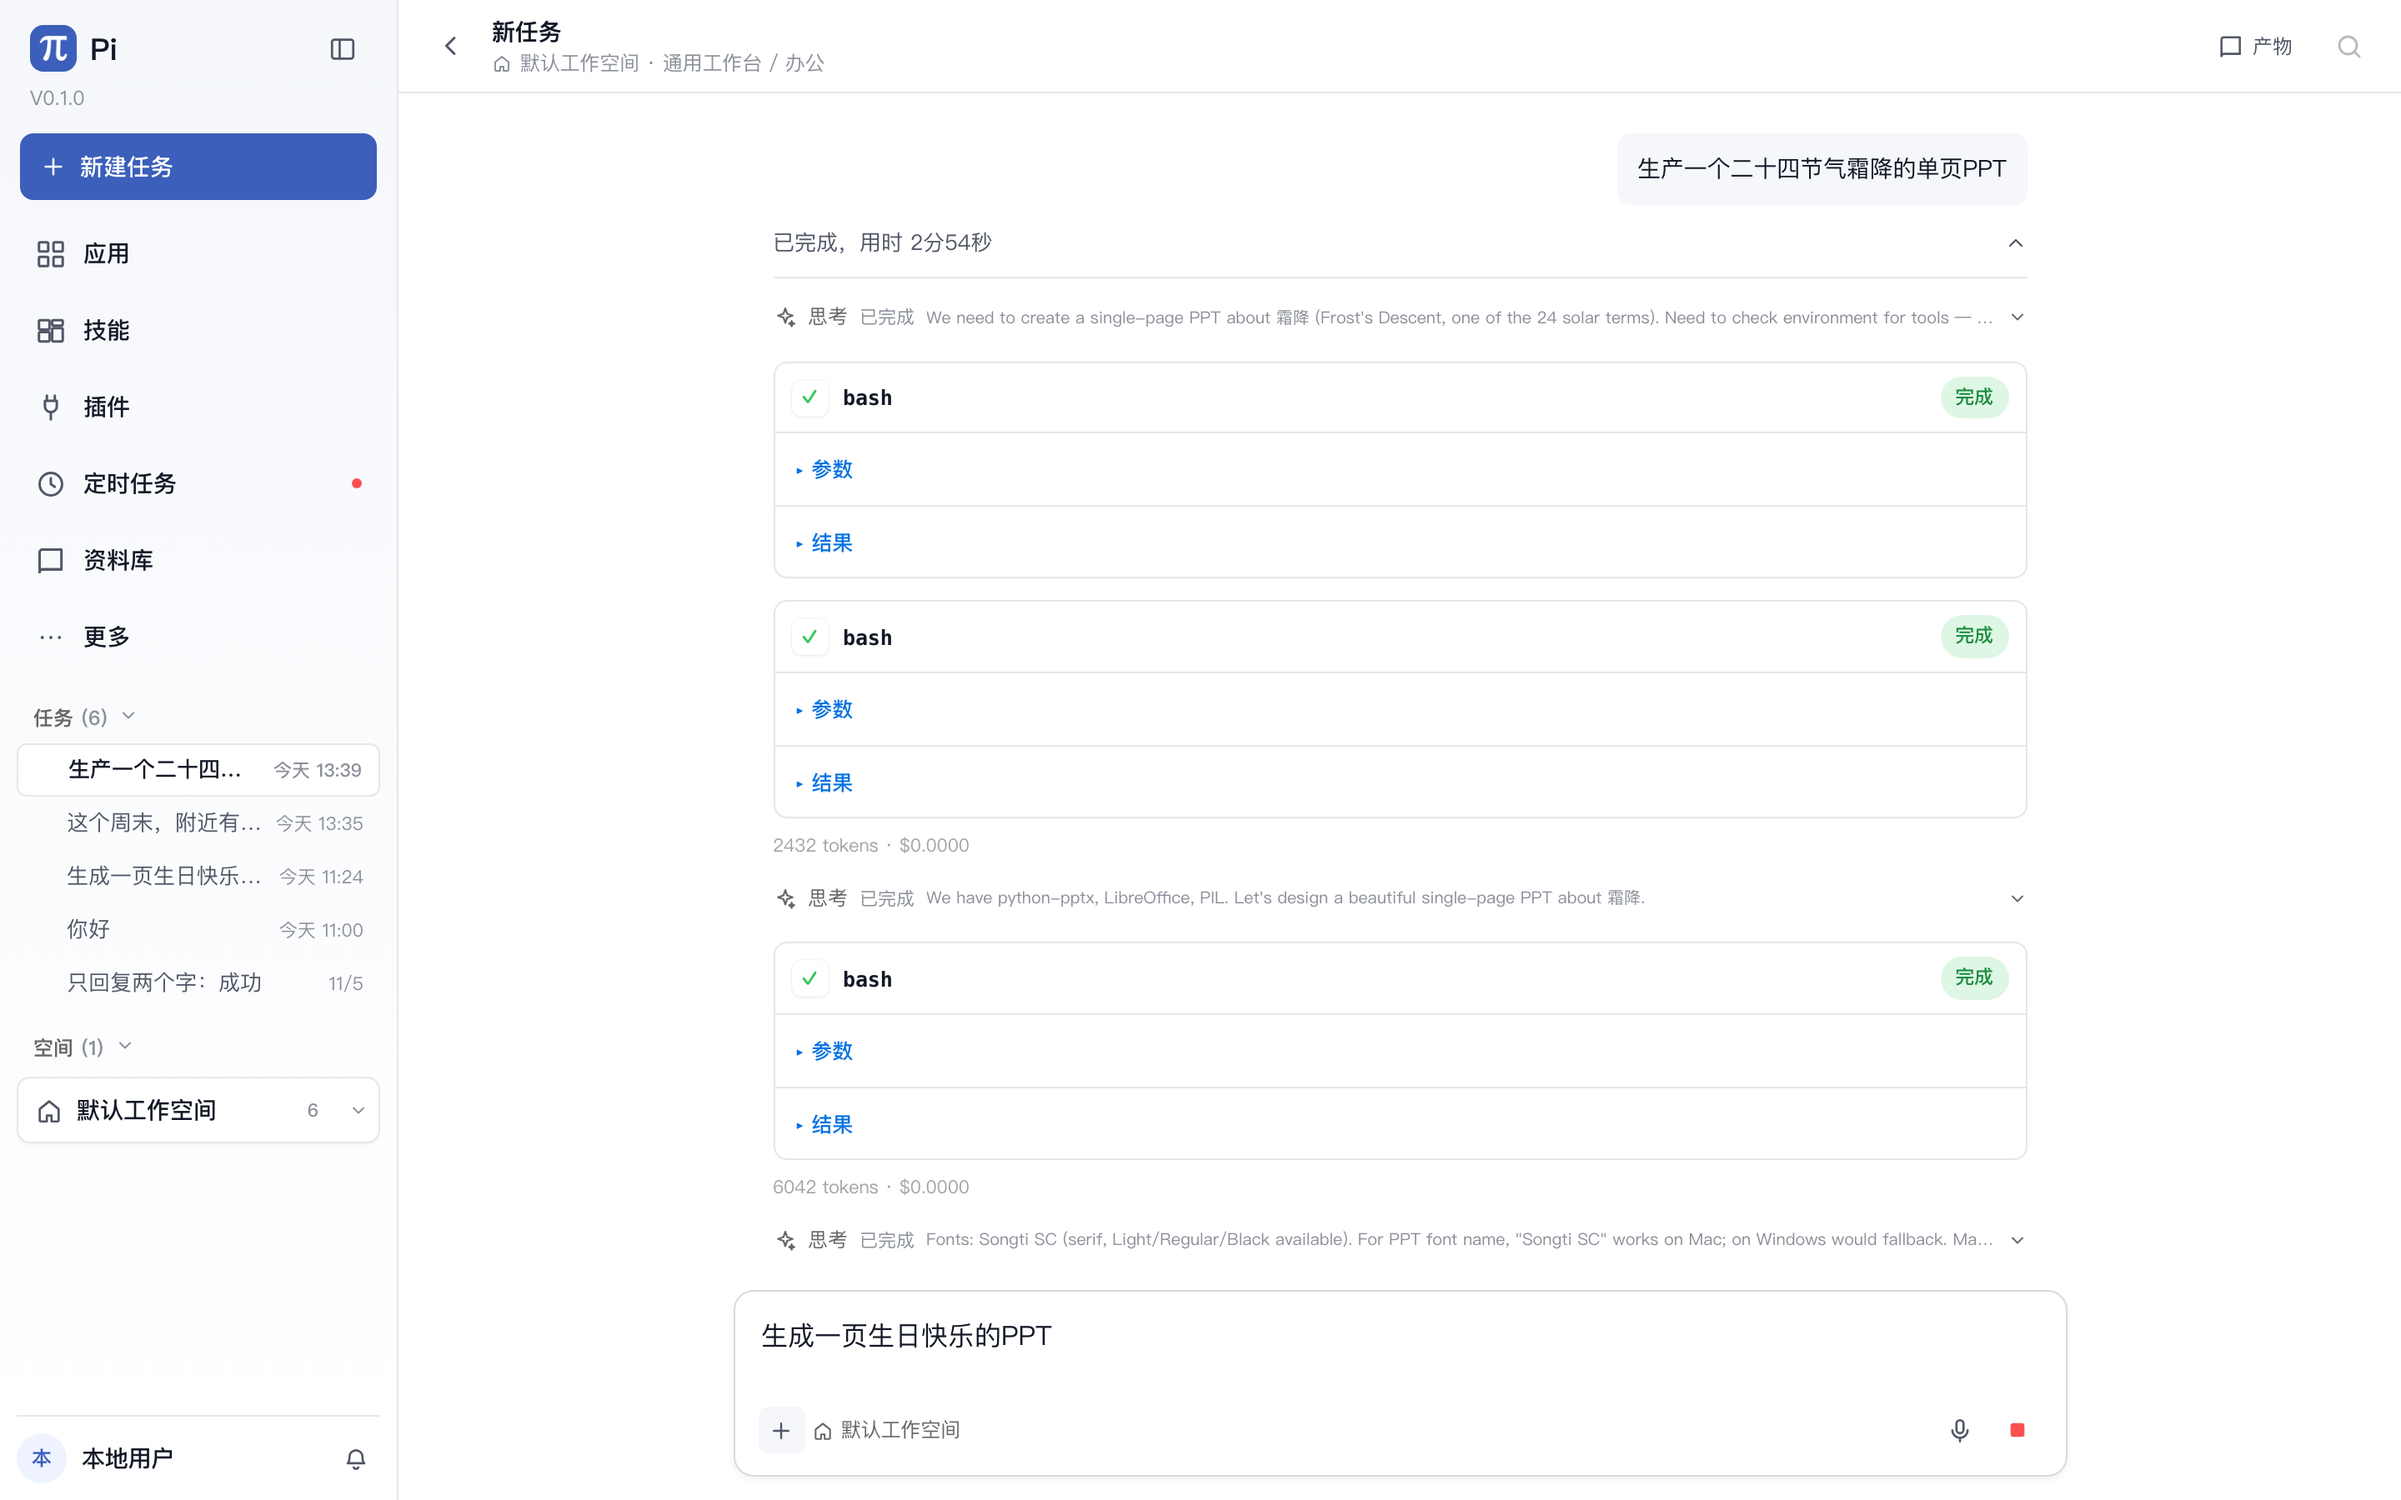
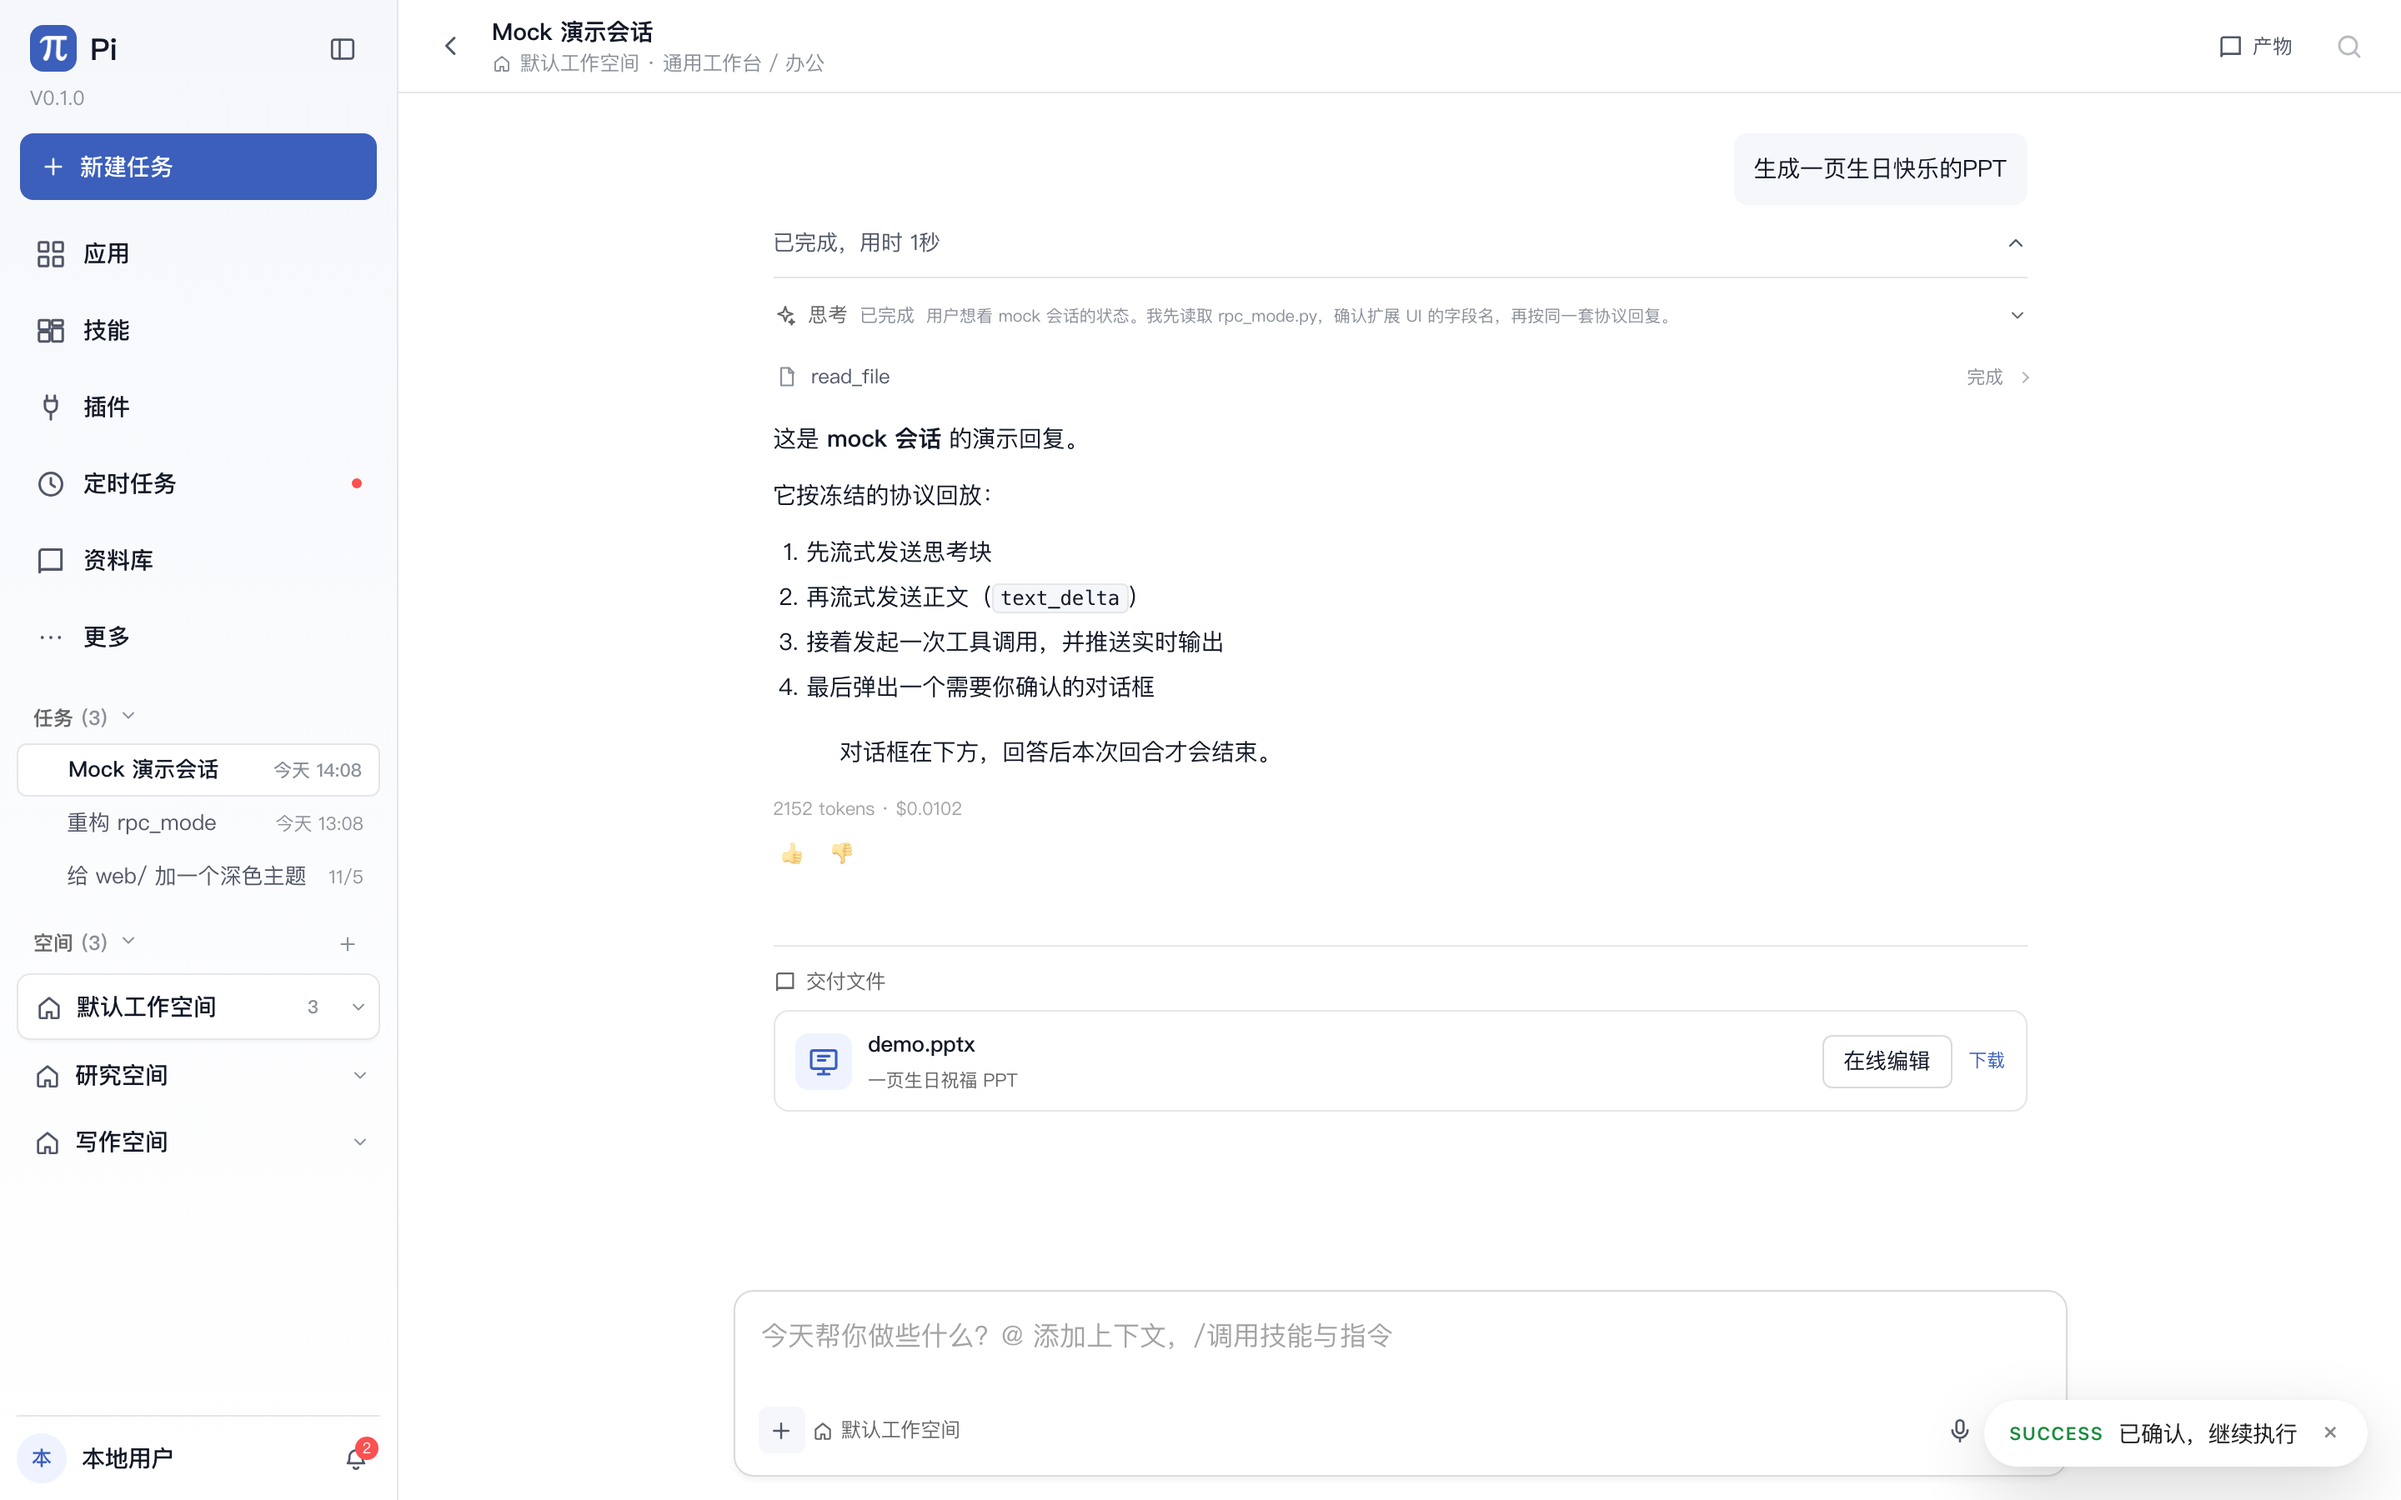
style(workbench): use unified text rows inside turn process
- render thinking, commands, file operations and tool results as compact rows
- keep the final answer separate; process stays collapsed until clicked
- no bordered tool cards in the process body
- update turn-process screenshot and layout doc

diff --git a/web/src/workbench/Workbench.tsx b/web/src/workbench/Workbench.tsx
@@ -14,6 +14,7 @@ import { DialogHost } from '../components/Dialog'
 import { Toasts } from '../components/Toasts'
 import { ToolCard } from '../components/ToolCard'
 import { api } from '../lib/api'
+import { toolResultText } from '../lib/useAgent'
 import { resolveApiBase } from '../lib/endpoints'
 import { renderMarkdown } from '../lib/markdown'
 import { asRecord, isTextBlock, isThinkingBlock, isToolCallBlock } from '../lib/protocol'
@@ -1943,6 +1944,145 @@ function TurnProcess({
   )
 }
 
+function toolArgs(block: ContentBlock): Record<string, unknown> {
+  const record = asRecord(block)
+  if (record.arguments !== undefined && record.arguments !== null) return asRecord(record.arguments)
+  if (typeof record.argumentsRaw === 'string') {
+    try {
+      return asRecord(JSON.parse(record.argumentsRaw) as unknown)
+    } catch {
+      return {}
+    }
+  }
+  return {}
+}
+
+function toolDisplay(block: ContentBlock): { title: string; summary: string } {
+  const args = toolArgs(block)
+  const name = (block as { name?: string }).name || ''
+  const value = (key: string) => (typeof args[key] === 'string' ? String(args[key]) : '')
+  switch (name) {
+    case 'bash':
+      return { title: '运行命令', summary: value('command').split(/\n/)[0] || '...' }
+    case 'read':
+      return { title: '读取文件', summary: value('path') || '...' }
+    case 'write':
+      return { title: '写入文件', summary: value('path') || '...' }
+    case 'edit':
+      return { title: '编辑文件', summary: value('path') || '...' }
+    case 'grep':
+      return { title: '搜索', summary: value('pattern') || '...' }
+    case 'find':
+      return { title: '查找', summary: value('pattern') || '...' }
+    case 'ls':
+      return { title: '列出目录', summary: value('path') || '.' }
+    case 'present':
+      return { title: '交付文件', summary: '文件已在聊天末尾展示' }
+    default:
+      return { title: name || '工具', summary: '' }
+  }
+}
+
+function toolStatus(execution?: ToolExecution): string {
+  if (execution?.status === 'running') return '运行中'
+  if (execution?.status === 'error' || execution?.isError) return '失败'
+  return '完成'
+}
+
+function ProcessToolRow({
+  block,
+  execution,
+}: {
+  block: ContentBlock
+  execution?: ToolExecution
+}) {
+  const { title, summary } = toolDisplay(block)
+  const args = toolArgs(block)
+  const argsText = Object.keys(args).length > 0 ? JSON.stringify(args, null, 2) : ''
+  const resultText = toolResultText(execution?.result) || toolResultText(execution?.partialResult) || ''
+  return (
+    <details className={`wb-process-row is-${toolStatus(execution) === '失败' ? 'error' : execution?.status || 'done'}`}>
+      <summary>
+        <span className="wb-process-glyph"><Icon name={(block as { name?: string }).name === 'bash' ? 'code' : (block as { name?: string }).name === 'present' ? 'book' : 'file'} size={14} /></span>
+        <b>{title}</b>
+        <span className="wb-process-summary">{summary}</span>
+        <em>{toolStatus(execution)}</em>
+      </summary>
+      {argsText ? <pre className="wb-process-pre">{argsText}</pre> : null}
+      {resultText ? <pre className="wb-process-pre">{resultText}</pre> : null}
+    </details>
+  )
+}
+
+function ProcessToolResult({
+  entry,
+}: {
+  entry: TranscriptEntry
+}) {
+  const message = entry.message
+  const text = message.role === 'toolResult'
+    ? message.content.filter(isTextBlock).map((block) => block.text).join('\n')
+    : ''
+  const name = message.role === 'toolResult' ? message.toolName || '工具' : '工具'
+  if (!text.trim()) return null
+  return (
+    <details className={`wb-process-row${message.role === 'toolResult' && message.isError ? ' is-error' : ''}`}>
+      <summary>
+        <span className="wb-process-glyph"><Icon name="code" size={14} /></span>
+        <b>{name}</b>
+        <span className="wb-process-summary">结果</span>
+        <em>{message.role === 'toolResult' && message.isError ? '失败' : '完成'}</em>
+      </summary>
+      <pre className="wb-process-pre">{text}</pre>
+    </details>
+  )
+}
+
+function ProcessEntries({
+  turn,
+  toolExecutions,
+}: {
+  turn: ChatTurn
+  toolExecutions: Record<string, ToolExecution>
+}) {
+  return (
+    <>
+      {turn.entries.map((entry) => {
+        const message = entry.message
+        if (message.role === 'assistant') {
+          const isFinal = entry.key === turn.final?.key
+          return (
+            <div className="wb-process-assistant" key={entry.key}>
+              {message.content.map((block, index) => {
+                if (isFinal && isTextBlock(block)) return null
+                if (isThinkingBlock(block)) {
+                  return <WbThinking key={`${entry.key}-think-${index}`} text={block.thinking} running={Boolean(entry.streaming)} />
+                }
+                if (isToolCallBlock(block)) {
+                  if (block.name === 'present') return null
+                  return <ProcessToolRow key={`${entry.key}-tool-${index}`} block={block} execution={toolExecutions[block.id]} />
+                }
+                if (isTextBlock(block)) {
+                  if (!block.text.trim()) return null
+                  return <div className="wb-process-text" key={`${entry.key}-text-${index}`} dangerouslySetInnerHTML={{ __html: renderMarkdown(block.text) }} />
+                }
+                return null
+              })}
+            </div>
+          )
+        }
+        if (message.role === 'toolResult') return <ProcessToolResult key={entry.key} entry={entry} />
+        if (message.role === 'custom') {
+          const custom = message as CustomMessage
+          const text = typeof custom.content === 'string' ? custom.content : ''
+          return text ? <div className="wb-process-text" key={entry.key}>{text}</div> : null
+        }
+        return null
+      })}
+    </>
+  )
+}
+
 function WbTranscript({
   agent,
   workspaceId,
@@ -2045,31 +2185,7 @@ function WbTranscript({
               ) : null}
               {turn.entries.length > 0 || turn.final ? (
                 <TurnProcess turn={turn} now={now}>
-                  {turn.entries.map((entry) => (
-                    <WbMessage
-                      key={entry.key}
-                      entry={entry}
-                      toolExecutions={agent.toolExecutions}
-                      streaming={agent.isStreaming && entry.streaming}
-                      sessionFile={sessionFile}
-                      feedback={feedback}
-                      onFeedback={onFeedback}
-                      mode={entry === turn.final ? 'process' : 'all'}
-                      showFeedback={false}
-                    />
-                  ))}
-                  {turn.final ? (
-                    <WbMessage
-                      key={`${turn.key}-answer`}
-                      entry={turn.final}
-                      toolExecutions={agent.toolExecutions}
-                      streaming={agent.isStreaming && turn.final.streaming}
-                      sessionFile={sessionFile}
-                      feedback={feedback}
-                      onFeedback={onFeedback}
-                      mode="answer"
-                    />
-                  ) : null}
+                  <ProcessEntries turn={turn} toolExecutions={agent.toolExecutions} />
                 </TurnProcess>
               ) : null}
               {turn.final ? (

diff --git a/web/src/workbench/workbench.css b/web/src/workbench/workbench.css
@@ -729,3 +729,31 @@
 .wb-msg-ai.is-answer .wb-msg-avatar,
 .wb-msg-ai.is-answer .wb-msg-name { display: none; }
 .wb-msg-ai.is-answer .wb-msg-content { font-size: 14px; }
+
+/* Unified process rows: no cards, just compact text lines (DSH-style). */
+.wb-process-assistant { display: flex; flex-direction: column; gap: 2px; }
+.wb-process-row { display: block; border: 0; }
+.wb-process-row > summary {
+  list-style: none;
+  display: flex;
+  align-items: center;
+  gap: 7px;
+  min-width: 0;
+  padding: 4px 0;
+  color: var(--wb-muted);
+  font-size: 12px;
+  cursor: pointer;
+}
+.wb-process-row > summary::-webkit-details-marker { display: none; }
+.wb-process-row > summary::after { content: ''; width: 5px; height: 5px; margin-left: 2px; border-right: 1px solid currentColor; border-bottom: 1px solid currentColor; transform: rotate(-45deg); opacity: .5; }
+.wb-process-row[open] > summary::after { transform: rotate(45deg); }
+.wb-process-row > summary:hover { color: var(--wb-ink-2); }
+.wb-process-glyph { width: 16px; flex: none; display: grid; place-items: center; color: var(--wb-muted-2); }
+.wb-process-row b { flex: none; font-weight: 400; color: var(--wb-ink-2); }
+.wb-process-summary { flex: 1; min-width: 0; overflow: hidden; text-overflow: ellipsis; white-space: nowrap; color: var(--wb-muted); }
+.wb-process-row em { flex: none; font-style: normal; font-size: 11px; color: var(--wb-muted-2); }
+.wb-process-row.is-error em { color: #a33a3a; }
+.wb-process-pre { margin: 2px 0 6px 23px; padding: 8px 10px; border-left: 2px solid #e4e7ee; background: #fafbfc; border-radius: 0 5px 5px 0; max-height: 220px; overflow: auto; font: 11.5px/1.6 ui-monospace, SFMono-Regular, Menlo, monospace; color: var(--wb-ink-2); white-space: pre-wrap; }
+.wb-process-text { padding: 3px 0 6px 23px; color: var(--wb-ink-2); font-size: 12.5px; line-height: 1.65; }
+.wb-process-text p { margin: 0 0 6px; }
+.wb-process-text p:last-child { margin-bottom: 0; }

diff --git a/docs/plans/2026-11-06-chat-workspace-delivery.md b/docs/plans/2026-11-06-chat-workspace-delivery.md
@@ -8,8 +8,9 @@
   - 运行中：`处理中，用时 14秒`
   - 完成后：`已完成，用时 34分55秒`
 - 思考、工具调用、中间回复全部收进这个控制下面；默认收起；
-- 最终回答单独显示在下面，不再被思考/工具卡打断；
-- 思考行内部仍可单独展开，工具参数默认折叠，失败结果自动展开；
+- 展开后不再有专用工具卡：思考、`运行命令`、`read_file` 等都是同样的小文本行；
+- 思考、命令、文件操作行都可以单独点开查看详情；默认只显示标题、摘要和状态；
+- 最终回答单独显示在下面，不再被过程打断；
 - 运行结束自动收起整轮过程，保留最终回答。
 
 ![整轮过程](../workbench-turn-process.png)
